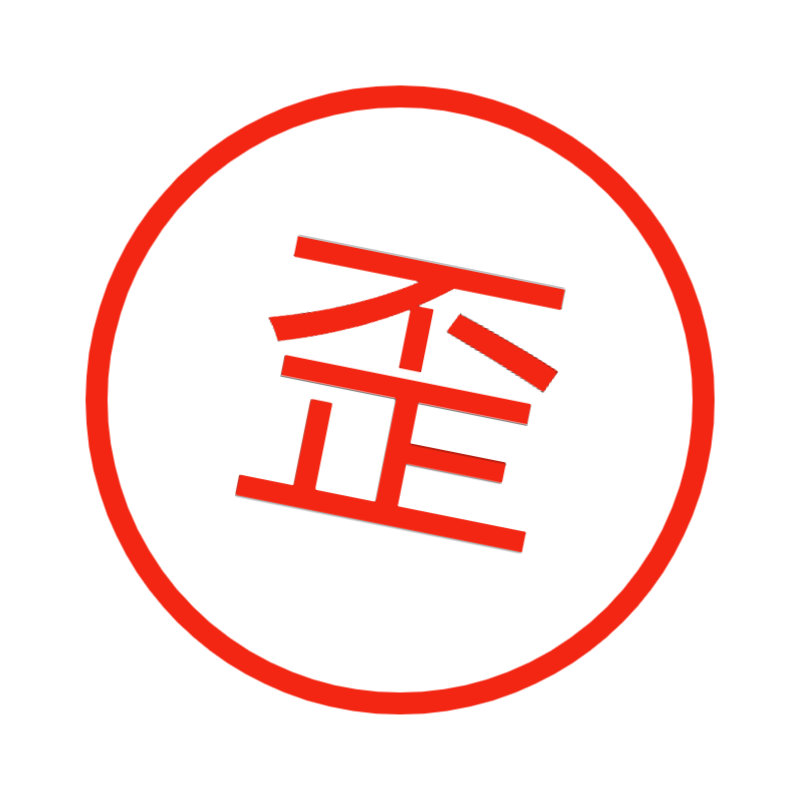
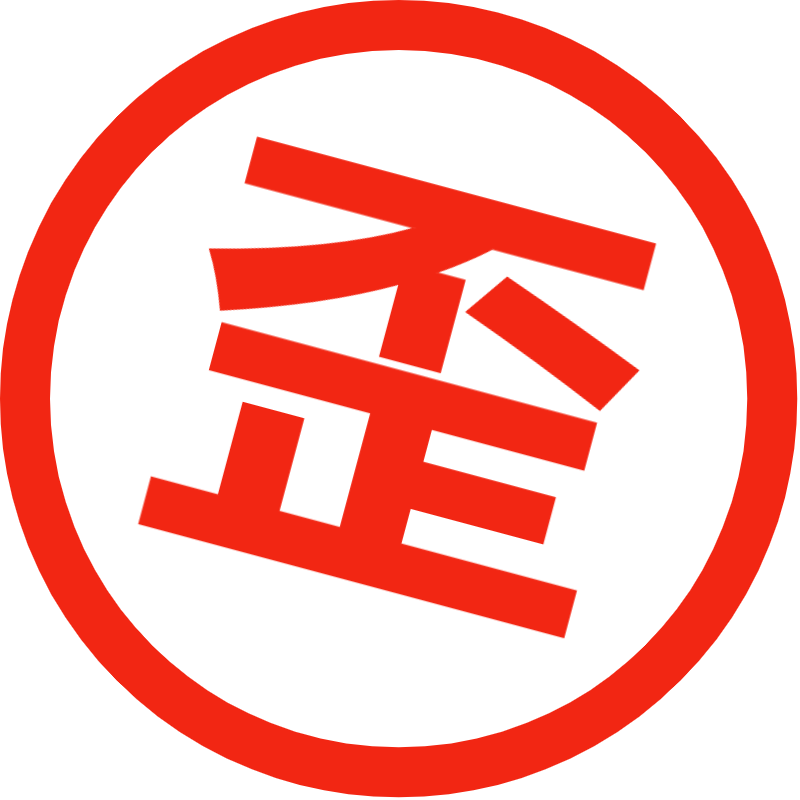
添加通知管理，优化图片效果

diff --git a/ui/NotificationItem.qml b/ui/NotificationItem.qml
@@ -1,0 +1,86 @@
+import QtQuick 2.15
+
+Item {
+    id: notificationItem
+    width: parent ? parent.width : 300
+    height: 40//rect.implicitHeight
+
+    property string notifactiontext: "通知文本"
+    property int duration: 3000
+    property int enterDelay: 0
+    property color notifactioncolor: "blue"
+    property url path
+    signal closed()
+
+    Rectangle {
+        id: rect
+        anchors.fill: parent
+        radius: 8
+        color: Qt.lighter(notifactioncolor)
+        border.color: notifactioncolor
+        opacity: 0
+
+        Text {
+            id: label
+            anchors.left: parent.left
+            anchors.verticalCenter: parent.verticalCenter
+            anchors.margins: 10
+
+            width: parent.width - closebtn.width -10
+            text: notifactiontext
+            color: "white"
+            font.pixelSize: 14
+            verticalAlignment: Text.AlignVCenter
+            wrapMode: Text.WordWrap
+        }
+
+        Image {
+            width:parent.height -5
+            height:parent.height - 5
+            id: closebtn
+            source: path + "/resource/closebtn.svg"
+            anchors.right: parent.right
+            anchors.verticalCenter: parent.verticalCenter
+            anchors.margins: 10
+            MouseArea{
+                anchors.fill:parent
+                onClicked: notificationItem.dismiss()
+            }
+        }
+    }
+
+    Timer { id: autoCloseTimer; interval: duration; running: false; onTriggered: notificationItem.dismiss() }
+    Timer { id: enterDelayTimer; interval: enterDelay; running: false; onTriggered: enterAnim.start() }
+
+    Component.onCompleted: {
+        if (enterDelay > 0) enterDelayTimer.start()
+        else enterAnim.start()
+    }
+
+    function dismiss() {
+        autoCloseTimer.stop()
+        enterDelayTimer.stop()
+        exitAnim.start()
+    }
+
+    // 入场：渐显 + 缩放
+    SequentialAnimation {
+        id: enterAnim
+        ParallelAnimation {
+            PropertyAnimation { target: rect; property: "opacity"; from: 0; to: 1; duration: 250 }
+            PropertyAnimation { target: rect; property: "scale"; from: 0.9; to: 1; duration: 250; easing.type: Easing.OutCubic }
+        }
+        ScriptAction { script: autoCloseTimer.start() }
+    }
+
+    // 离场：渐隐 + 缩放
+    SequentialAnimation {
+        id: exitAnim
+        ParallelAnimation {
+            PropertyAnimation { target: rect; property: "opacity"; to: 0; duration: 200 }
+            PropertyAnimation { target: rect; property: "scale"; to: 0.9; duration: 200; easing.type: Easing.InCubic }
+        }
+        ScriptAction { script: closed() }
+    }
+}
+

diff --git a/ui/main.qml b/ui/main.qml
@@ -3,7 +3,7 @@ import QtQuick.Window 2.2
 import Config 1.0
 import QtQuick.Controls
 import Global
-import Error
+import Notifier
 import LanguageManager
 import Data
 
@@ -13,6 +13,47 @@ Window {
     width: Screen.width/2
     height: Screen.height/2
     title: "Wuthering Waves Convene Export"
+
+    ListModel { id: notificationModel }
+
+    // 通知容器（顶部居中）
+    Column {
+        z: 100
+
+        id: notificationColumn
+        anchors.top: parent.top
+        anchors.horizontalCenter: parent.horizontalCenter
+        spacing: 8
+        width: parent.width * 0.6 > 400 ? 400 : parent.width * 0.6
+        padding: 10
+
+        Repeater {
+            model: notificationModel
+            delegate: NotificationItem {
+                // 把 model 的 role 映射到组件属性上（更稳妥）
+                notifactiontext: model.text
+                notifactioncolor: model.color
+                duration: model.duration
+                path: Global.path
+                enterDelay: index * 80   // 每条错开 80ms 入场
+                onClosed: notificationModel.remove(index)
+            }
+        }
+    }
+    Connections{
+        target: Notifier;
+        function onMessageOccurred(mode,message){
+
+            switch(mode){
+                case 0: notificationModel.append({ "text": message, "duration": 3000, "color":"green"});break;
+                case 1: notificationModel.append({ "text": message, "duration": 3000, "color":"blue"}); break;
+                case 2: notificationModel.append({ "text": message, "duration": 3000, "color":"yellow"}); break;
+                case 3: notificationModel.append({ "text": message, "duration": 3000, "color":"red"}); break;
+                default:break;
+            }
+        }
+    }
+
     Button{
         z:2
         id: btn

diff --git a/ui/Header.qml b/ui/Header.qml
@@ -129,5 +129,3 @@ Item {
         }
     }
 }
-
-

diff --git a/src/Data.cpp b/src/Data.cpp
@@ -35,13 +35,13 @@ void Data::initGachaList() {
 	}
 	catch (const json::parse_error& e) {
 		qWarning() << "数据文件解析失败 " << e.what();
-		ErrorNotifier::instance().notifyError("数据文件解析失败");
+		Notifier::instance().notify(3, "数据文件解析失败");
 		gacha_list = default_data;
 		WriteJsonFile(file_path + "/" + file_name + ".json", default_data);
 	}
 	catch (...) {
 		qWarning() << "数据文件读取失败 ";
-		ErrorNotifier::instance().notifyError("数据文件读取失败");
+		Notifier::instance().notify(3, "数据文件读取失败");
 		gacha_list = default_data;
 	}
 	//比对hash，若不一致，则检测文件是否合法
@@ -142,7 +142,7 @@ void Data::save(json data) {
 	}
 	catch (const std::filesystem::filesystem_error& e) {
 		qWarning() << "备份数据失败 " << e.what();
-		ErrorNotifier::instance().notifyError("备份数据失败");
+		Notifier::instance().notify(2, "备份数据失败");
 	}
 	WriteJsonFile(file_path + "/" + file_name + ".json", data);
 	//更新配置的hash值
@@ -180,7 +180,7 @@ void Data::trim_backup_files(const std::string& dir, int max_backup_count) {
 			}
 			catch (const fs::filesystem_error& e) {
 				qWarning() << "清理备份文件失败 " << e.what();
-				ErrorNotifier::instance().notifyError("备份文件删除失败");
+				Notifier::instance().notify(2, "备份文件删除失败");
 			}
 		}
 	}
@@ -630,7 +630,7 @@ Q_INVOKABLE void Data::update_data(int mode, QString input_url) {
 			if (gacha_listCopy.contains(uid) and gacha_listCopy[uid]["info"]["lang"].get<std::string>() != urls[uid]["lang"].get<std::string>()) {
 				qWarning() << "当前url的语言和数据语言不一致 当前选择语言：" << QString::fromStdString(urls[uid]["lang"].get<std::string>()) << "数据语言：" << QString::fromStdString(gacha_listCopy[uid]["info"]["lang"].get<std::string>());
 				qWarning() << "采用原数据语言 " << QString::fromStdString(gacha_listCopy[uid]["info"]["lang"].get<std::string>());
-				ErrorNotifier::instance().notifyError("当前url的语言和数据语言不一致!采用原数据语言");
+				Notifier::instance().notify(2, "当前url的语言和数据语言不一致!采用原数据语言");
 				urls[uid]["lang"] = gacha_listCopy[uid]["info"]["lang"].get<std::string>();
 				new_gacha_list[uid]["info"]["lang"] = gacha_listCopy[uid]["info"]["lang"].get<std::string>();
 			}
@@ -638,7 +638,7 @@ Q_INVOKABLE void Data::update_data(int mode, QString input_url) {
 			std::vector<std::string> support_lang = Global::instance().get_support_languages();
 			if (std::find(support_lang.begin(), support_lang.end(), new_gacha_list[uid]["info"]["lang"].get<std::string>()) == support_lang.end()) {
 				qWarning() << "当前语言不支持 采用简体中文";
-				ErrorNotifier::instance().notifyError("当前语言不支持 采用简体中文");
+				Notifier::instance().notify(2, "当前语言不支持 采用简体中文");
 				urls[uid]["lang"] = "zh-Hans";
 				new_gacha_list[uid]["info"]["lang"] = "zh-Hans";
 			}
@@ -664,7 +664,7 @@ Q_INVOKABLE void Data::update_data(int mode, QString input_url) {
 				//数据获取失败
 				if (new_data["code"] != 0) {
 					qWarning() << QString::fromStdString(uid) << ": 数据获取失败 code :" << QString::number(new_data["code"].get<int>());
-					ErrorNotifier::instance().notifyError("api已过期，请进入游戏刷新");
+					Notifier::instance().notify(2, "api已过期，请进入游戏刷新");
 					break;
 				}
 				//数据获取成功，自动切换uid
@@ -847,7 +847,7 @@ json Data::get_gacha_data(const std::string cardPoolId, const std::string cardPo
 
 	if (!res || res->status != 200) {
 		qWarning() << "网络异常 状态码：" << (res ? QString::fromStdString(std::to_string(res->status)) : "连接失败");
-		ErrorNotifier::instance().notifyError("网络异常" + (res ? QString::fromStdString(std::to_string(res->status)) : "连接失败"));
+		Notifier::instance().notify(2, "网络异常" + (res ? QString::fromStdString(std::to_string(res->status)) : "连接失败"));
 		return { {"code", -2} };
 	}
 	try {
@@ -856,7 +856,7 @@ json Data::get_gacha_data(const std::string cardPoolId, const std::string cardPo
 	}
 	catch (...) {
 		qWarning() << "响应解析失败";
-		ErrorNotifier::instance().notifyError(tr("响应解析失败"));
+		Notifier::instance().notify(3, tr("响应解析失败"));
 		return { {"code", -3} };
 	}
 }

diff --git a/src/utils.cpp b/src/utils.cpp
@@ -1,5 +1,5 @@
 #include "utils.h"
-#include "ErrorNotifier.h"
+#include "Notifier.h"
 
 std::string RunAndGetOutput(const std::string& exePath) {
 	HANDLE hRead, hWrite;
@@ -207,7 +207,7 @@ void WriteJsonFile(const std::string& path, const json& data) {
 
 	if (!f.is_open()) {
 		qCritical() << "文件打开失败! " << "path:" << QString::fromUtf8(path);
-		ErrorNotifier::instance().notifyError("文件打开失败! ");
+		Notifier::instance().notify(3, "文件打开失败! ");
 		return;
 	}
 
@@ -216,15 +216,15 @@ void WriteJsonFile(const std::string& path, const json& data) {
 	}
 	catch (const json::type_error& e) {
 		qWarning() << "json解析失败: " << e.what();
-		ErrorNotifier::instance().notifyError("json解析失败 ");
+		Notifier::instance().notify(3, "json解析失败 ");
 	}
 	catch (const std::ios_base::failure& e) {
 		qCritical() << "文件写入失败! " << "path:" << QString::fromUtf8(path);
-		ErrorNotifier::instance().notifyError("文件写入失败!");
+		Notifier::instance().notify(3, "文件写入失败!");
 	}
 	catch (...) {
 		qCritical() << "文件写入发生未知错误 " << "path:" << QString::fromUtf8(path);
-		ErrorNotifier::instance().notifyError("文件写入发生未知错误");
+		Notifier::instance().notify(3, "文件写入发生未知错误");
 	}
 }
 

diff --git a/src/main.cpp b/src/main.cpp
@@ -7,7 +7,7 @@
 #include "utils.h"
 #include "config.h"
 #include "global.h"
-#include "ErrorNotifier.h"
+#include "Notifier.h"
 #include "LanguageManager.h"
 #include "Data.h"
 
@@ -35,7 +35,7 @@ int main(int argc, char *argv[])
     app.installNativeEventFilter(new NativeFramelessHelper);
     app.setWindowIcon(QIcon(":/qt/qml/wuthering waves convene export/resource/favicon.ico"));  // 支持 qrc 或文件路径
     //加载类
-    ErrorNotifier::instance();
+    Notifier::instance();
     Global::instance();
     ConfigManager::instance();
     LanguageManager& langMgr = LanguageManager::instance();
@@ -53,7 +53,7 @@ int main(int argc, char *argv[])
     langMgr.init(&engine, &app);
     qmlRegisterSingletonInstance("LanguageManager", 1, 0, "LanguageManager", &langMgr);
 
-    qmlRegisterSingletonInstance("Error", 1, 0, "ErrorNotifier", &ErrorNotifier::instance());
+    qmlRegisterSingletonInstance("Notifier", 1, 0, "Notifier", &Notifier::instance());
     qmlRegisterSingletonInstance("Global", 1, 0, "Global", &Global::instance());
     qmlRegisterSingletonInstance("Config", 1, 0, "ConfigManager", &ConfigManager::instance());
     qmlRegisterSingletonInstance("Data", 1, 0, "Data", &Data::instance());

diff --git a/include/config.h b/include/config.h
@@ -3,7 +3,7 @@
 #include <QVariantMap>
 #include "utils.h"
 #include "global.h"
-#include "ErrorNotifier.h"
+#include "Notifier.h"
 
 class ConfigManager : public QObject {
     Q_OBJECT
@@ -172,19 +172,19 @@ private:
         }
         catch (const std::runtime_error& e) {
             qWarning() << "配置文件打开失败，正在创建";
-            ErrorNotifier::instance().notifyError("配置文件读取失败");
+            Notifier::instance().notify(3, "配置文件读取失败");
             config = default_config;
             save();
         }
         catch (const json::parse_error& e) {
             std::cerr << "配置文件json解析失败，正在创建" << std::endl;
-            ErrorNotifier::instance().notifyError("配置文件读取失败");
+            Notifier::instance().notify(3, "配置文件读取失败");
             config = default_config;
             save();
         }
         catch (...) {
             qWarning() << "读取配置文件发生未知错误";
-            ErrorNotifier::instance().notifyError("配置文件读取失败");
+            Notifier::instance().notify(3, "配置文件读取失败");
             config = default_config;
         }
 

diff --git a/include/Notifier.h b/include/Notifier.h
@@ -1,0 +1,27 @@
+#pragma once
+#include <QObject>
+#include "Logger.h"
+class Notifier : public QObject {
+    Q_OBJECT
+public:
+    static Notifier& instance() {
+        static Notifier notifier;
+        return notifier;
+    }
+
+    Q_INVOKABLE void notify(int mode,const QString& message) {
+        //0 成功 绿色 green
+        //1 通知 蓝色 blue
+        //2 警告 黄色 yellow
+        //3 错误 红色 red
+        emit messageOccurred(mode, message);
+        qDebug() << QString::number(mode) << message;
+    }
+
+signals:
+    void messageOccurred(int mode, const QString& message);
+
+private:
+    explicit Notifier(QObject* parent = nullptr) : QObject(parent) {}
+    Q_DISABLE_COPY(Notifier)
+};
